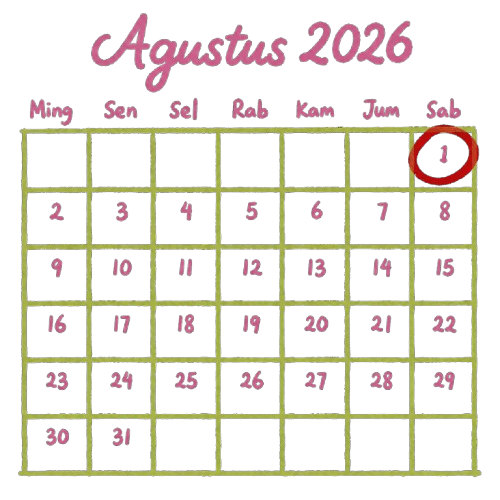
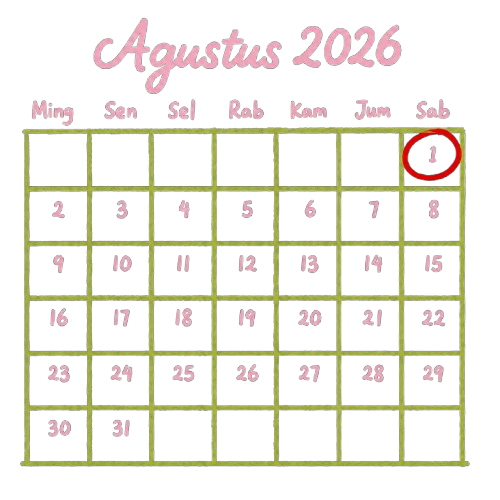
feat: adjust cover layout, groom name scale, custom spacing, and navbar anchor

Changed region(s): [[0.03, 0.03, 0.96, 0.96]]

diff --git a/index.html b/index.html
@@ -22,12 +22,12 @@
 
 	<!-- This site is optimized with the Yoast SEO plugin v27.8 - https://yoast.com/product/yoast-seo-wordpress/ -->
 	<title>Bima 💗 Nabilah</title>
-	<meta name="description" content="The Wedding of Nabilah &amp; Bima - Invitaton by KirimDigi">
+	<meta name="description" content="the wedding of Bima &amp; Nabilah - Invitaton by KirimDigi">
 	<link rel="canonical" href="index.htm">
 	<meta property="og:locale" content="en_US">
 	<meta property="og:type" content="article">
 	<meta property="og:title" content="Bima &amp; Nabilah - KirimDigi">
-	<meta property="og:description" content="The Wedding of Nabilah &amp; Bima - Invitaton by KirimDigi">
+	<meta property="og:description" content="the wedding of Bima &amp; Nabilah - Invitaton by KirimDigi">
 	<meta property="og:url" content="https://bycativestudio.com/octavia-fernando/">
 	<meta property="og:site_name" content="KirimDigi">
 	<meta property="article:published_time" content="2026-05-12T05:42:58+00:00">
@@ -289,7 +289,7 @@ if(e)
 				</div>
 				<div class="elementor-element elementor-element-343e696 elementor-widget elementor-widget-image" data-id="343e696" data-element_type="widget" data-e-type="widget" data-widget_type="image.default">
 				<div class="elementor-widget-container">
-															<img decoding="async" width="1635" height="962" src="./nama%20mempelai.png" class="attachment-full size-full wp-image-148916" alt="" sizes="(max-width: 1635px) 100vw, 1635px" style="margin-top: -10% !important; position: relative; z-index: 5;">															</div>
+															<img decoding="async" width="1635" height="962" src="./nama%20mempelai.png" class="attachment-full size-full wp-image-148916" alt="" sizes="(max-width: 1635px) 100vw, 1635px" style="margin-top: -25% !important; position: relative; z-index: 5;">															</div>
 				</div>
 				</div>
 				</div>
@@ -330,7 +330,7 @@ if(e)
 															<img loading="lazy" decoding="async" width="1080" height="731" src="./wp-content/uploads/2026/05/Sketch-Pink-Kursi-Meja.png" class="attachment-full size-full wp-image-148556" alt="" sizes="(max-width: 1080px) 100vw, 1080px">															</div>
 				</div>
 		<div class="elementor-element elementor-element-33fcf33 e-con-full e-flex e-con e-child" data-id="33fcf33" data-element_type="container" data-e-type="container">
-		<div class="elementor-element elementor-element-826274c e-con-full slideleft e-flex e-con e-child" data-id="826274c" data-element_type="container" data-e-type="container">
+		<div class="elementor-element elementor-element-826274c e-con-full slideleft e-flex e-con e-child" data-id="826274c" data-element_type="container" data-e-type="container" id="mempelai-pria">
 				<div class="elementor-element elementor-element-0088c9c elementor-widget-mobile__width-initial elementor-widget elementor-widget-image" data-id="0088c9c" data-element_type="widget" data-e-type="widget" data-widget_type="image.default">
 				<div class="elementor-widget-container">
 															<img loading="lazy" decoding="async" width="1080" height="1442" src="./pria_framed.png" class="attachment-full size-full wp-image-148734" alt="" sizes="(max-width: 1080px) 100vw, 1080px">															</div>
@@ -368,7 +368,7 @@ if(e)
 				</div>
 				<div class="elementor-element elementor-element-6cb10a6 elementor-widget elementor-widget-image" data-id="6cb10a6" data-element_type="widget" data-e-type="widget" data-widget_type="image.default">
 				<div class="elementor-widget-container">
-															<img loading="lazy" decoding="async" width="1813" height="868" src="./mempelai wanita.png" class="attachment-full size-full wp-image-148735" alt="" sizes="(max-width: 1813px) 100vw, 1813px">															</div>
+															<img loading="lazy" decoding="async" width="1813" height="868" src="./mempelai wanita.png" class="attachment-full size-full wp-image-148735" alt="" sizes="(max-width: 1813px) 100vw, 1813px">															<br></div>
 				</div>
 				<div class="elementor-element elementor-element-6208868 muncul elementor-shape-rounded elementor-grid-0 e-grid-align-center elementor-widget elementor-widget-social-icons" data-id="6208868" data-element_type="widget" data-e-type="widget" data-widget_type="social-icons.default">
 				<div class="elementor-widget-container">
@@ -765,7 +765,7 @@ if(e)
 							<div class="elementor-icon-box-wrapper">
 
 						<div class="elementor-icon-box-icon">
-				<a href="#mempelai" class="elementor-icon elementor-animation-grow" tabindex="-1">
+				<a href="#mempelai-pria" class="elementor-icon elementor-animation-grow" tabindex="-1">
 				<svg xmlns="http://www.w3.org/2000/svg" xmlns:xlink="http://www.w3.org/1999/xlink" id="svg" width="400" height="400" viewbox="0, 0, 400,400"><g id="svgg"><path id="path0" d="M136.719 1.544 C 107.573 9.243,91.000 32.485,91.026 65.625 L 91.037 79.297 93.855 87.314 C 101.393 108.765,115.659 124.532,152.344 151.956 C 168.585 164.098,178.567 172.421,184.295 178.596 C 191.252 186.097,193.714 187.492,200.000 187.492 C 206.286 187.492,208.748 186.097,215.705 178.596 C 221.519 172.327,231.286 164.206,248.943 150.956 C 278.014 129.142,290.053 117.331,299.876 100.987 C 318.454 70.077,309.011 25.608,280.281 8.707 C 256.243 -5.434,222.119 -2.418,203.711 15.475 L 200.000 19.082 196.289 15.475 C 182.854 2.416,156.632 -3.716,136.719 1.544 M164.094 33.285 C 174.775 36.457,181.043 44.339,183.911 58.206 C 188.295 79.408,212.227 78.648,216.341 57.177 C 222.711 23.924,268.936 22.681,276.516 55.558 C 281.789 78.430,271.015 93.869,226.172 127.708 C 218.867 133.220,209.996 140.152,206.458 143.112 L 200.026 148.494 193.176 142.802 C 189.408 139.671,180.525 132.739,173.436 127.398 C 132.580 96.614,123.067 84.877,123.053 65.234 C 123.036 40.643,141.215 26.491,164.094 33.285 M276.673 184.404 C 235.070 195.301,217.038 246.518,242.921 280.270 L 246.064 284.367 241.196 286.822 C 227.227 293.865,212.728 306.433,203.091 319.852 C 199.866 324.344,200.247 324.430,195.662 318.164 C 186.608 305.789,165.364 288.325,155.276 284.962 C 154.870 284.827,156.327 282.120,158.512 278.948 C 186.300 238.610,157.048 183.594,107.813 183.594 C 58.577 183.594,29.325 238.610,57.113 278.948 C 59.298 282.120,60.755 284.827,60.349 284.962 C 50.228 288.335,29.581 305.294,20.161 317.969 C -3.580 349.916,-6.342 381.690,13.488 394.743 C 22.205 400.482,5.581 400.033,201.194 399.810 L 376.953 399.609 382.033 397.202 C 404.645 386.486,407.051 350.589,385.240 349.356 C 374.822 348.768,367.989 355.283,367.973 365.820 L 367.969 368.750 292.188 368.750 C 219.352 368.750,216.406 368.695,216.406 367.324 C 216.406 358.191,228.205 337.949,239.807 327.181 C 266.623 302.289,303.355 299.539,336.180 319.967 C 348.788 327.813,361.622 322.277,362.345 308.680 C 362.825 299.661,357.980 294.112,343.202 286.757 L 338.335 284.335 341.466 280.254 C 376.012 235.209,331.892 169.942,276.673 184.404 M304.563 217.484 C 332.386 231.789,323.242 272.266,292.188 272.266 C 258.980 272.266,252.074 227.594,283.472 215.888 C 288.390 214.054,299.532 214.898,304.563 217.484 M120.188 218.265 C 148.011 232.571,138.867 273.047,107.813 273.047 C 74.605 273.047,67.699 228.375,99.097 216.669 C 104.015 214.836,115.157 215.679,120.188 218.265 M126.571 308.838 C 148.636 314.524,167.235 329.513,177.258 349.686 C 180.155 355.518,183.594 365.272,183.594 367.660 C 183.594 368.585,172.109 368.750,107.813 368.750 C 34.977 368.750,32.031 368.695,32.031 367.324 C 32.031 366.540,32.904 363.333,33.971 360.196 C 47.237 321.192,87.615 298.798,126.571 308.838 " stroke="none" fill-rule="evenodd"></path></g></svg>				</a>
 			</div>
 			